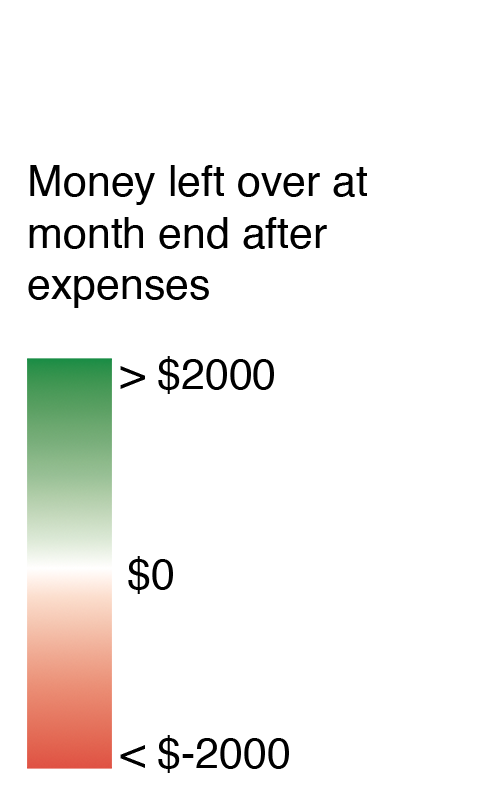
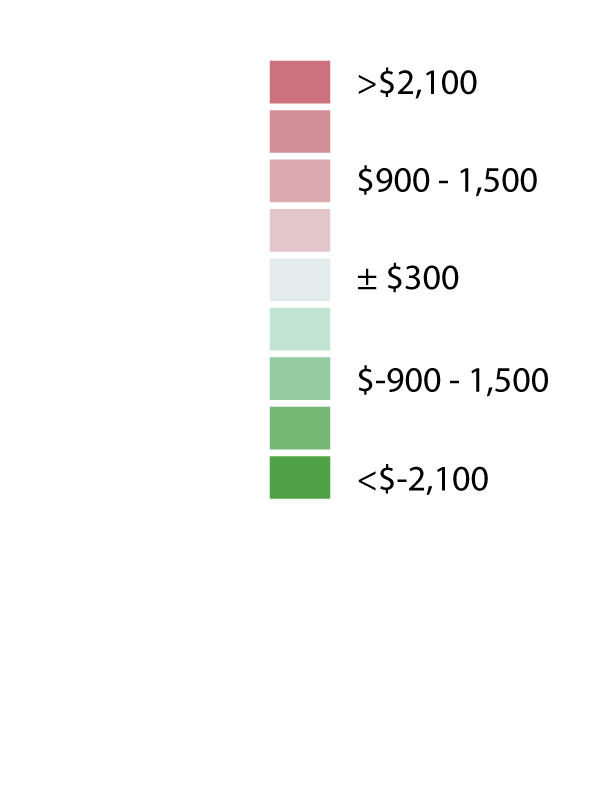
better interaction, updated colors and label to map

diff --git a/d3Tree/bayMap/index.html b/d3Tree/bayMap/index.html
@@ -7,42 +7,43 @@
   fill: none;
 }
 
+#job{
+  float:left;
+  width:45%;
+  padding: 20px;
+  padding-bottom: 50px;
+  height:25%;
+}
+#loan{
+  float:left;
+  width: 45%;
+  padding: 20px;
+  padding-bottom: 50px;
+}
 
-
-.q0-15:hover,
-.q1-15:hover,
-.q2-15:hover,
-.q3-15:hover,
-.q4-15:hover,
-.q5-15:hover,
-.q6-15:hover,
-.q7-15:hover,
-.q8-15:hover,
-.q9-15:hover,
-.q10-15:hover,
-.q11-15:hover,
-.q12-15:hover,
-.q13-15:hover,
-.q14-15:hover{
+.q0-9:hover,
+.q1-9:hover,
+.q2-9:hover,
+.q3-9:hover,
+.q4-9:hover,
+.q5-9:hover,
+.q6-9:hover,
+.q7-9:hover,
+.q8-9:hover{
   opacity: 0.7;
 }
 
-.q0-15, 
-.q1-15,
-.q2-15,
-.q3-15,
-.q4-15,
-.q5-15,
-.q6-15,
-.q7-15,
-.q8-15,
-.q9-15,
-.q10-15,
-.q11-15,
-.q12-15,
-.q13-15,
-.q14-15{
-  stroke: #606060 ;
+.outside,
+.q0-9, 
+.q1-9,
+.q2-9,
+.q3-9,
+.q4-9,
+.q5-9,
+.q6-9,
+.q7-9,
+.q8-9{
+  stroke: #FFFFFF ;
   stroke-width: .5px;
 }
 div.tooltip {
@@ -58,21 +59,36 @@ div.tooltip {
   pointer-events: none;
 }
 
-.q0-15 { fill:#e0524a; }
-.q1-15 { fill:#e4695b; }
-.q2-15 { fill:#e77d6b; }
-.q3-15 { fill:#ed9682; }
-.q4-15 { fill:#f1ad9a; }
-.q5-15 { fill:#f6c8b7; }
-.q6-15 { fill:#f6c9b8; }
-.q7-15 { fill:#ffffff; }
-.q8-15 { fill:#d4e4d0; }
-.q9-15 { fill:#b7d1b3; }
-.q10-15 { fill:#96bf98; }
-.q11-15 { fill:#7aaf82; }
-.q12-15 { fill:#5fa26e; }
-.q13-15 { fill:#42975c; }
-.q14-15 { fill:#1a8e4f; }
+#map {
+    display: block;
+    margin: auto;
+    text-align: center;
+}
+
+.q0-9 { fill:#CB727F; }
+.q1-9 { fill:#D28D96; }
+.q2-9 { fill:#DAA9AF; }
+.q3-9 { fill:#E2C6C9; }
+.q4-9 { fill:#DAE2E3; }
+.q5-9 { fill:#B4DCC2; }
+.q6-9 { fill:#96C99F; }
+.q7-9 { fill:#76B675; }
+.q8-9 { fill:#52A047; }
+
+
+.outside { fill: #CFCFCF}
+
+
+.tooltip{ background-color:rgba(68,136,187,0.5);;
+          margin: 10px;
+          height: 50px;
+          width: 150px;
+          padding-left: 10px; 
+          padding-top: 10px;
+    -webkit-border-radius:10px;
+    -moz-border-radius:10px;
+    border-radius:10px;
+        }
 
 </style>
 <body>
@@ -82,9 +98,10 @@ div.tooltip {
     <br>
 
       <div id = "map">
+        <div id = "job">
         <form action="">
           <label for="position">Position:</label>
-            <select id = "position">
+            <select id = "position" onchange = "printCalculation();" >
                  <option value="management">Management</option>
                  <option value="business_finops">Business and Financial Operations</option>
                  <option value="computer_math">Computer and Mathematical</option>
@@ -107,21 +124,13 @@ div.tooltip {
                  <option value="nstall_maint">Installation, Maintenance and Repair</option>
                  <option value="production">Production</option>
                  <option value="transportation">Transportation and Material Moving</option>
-        </select><br><br>
-        <label for="loan_amount">Loan Amount:</label>
-            <input type="text" id="loan_amount" value="17000">
-        <br><br>
-        <label for="interest_rate">Interest Rate:</label>
-            <input type="text" id="interest_rate" value="6">
-        <br><br>
-        <label for="payoff_period">Payoff Period:</label>
-            <input type="text" id="payoff_period" value="10">
+        </select>
         <br><br>
             <label for="weekly_hours_worked">Weekly Hours worked:</label>
-            <input type="range"  name="weekly_hours_worked" id="weekly_hours_worked" value="40" min="0" max="100" onchange="showValue(this.value)">
+            <input type="range"  name="weekly_hours_worked" id="weekly_hours_worked" value="40" min="0" max="100"  oninput = "printCalculation(); showValue(this.value)">
             <span id="weekly_hours_worked_label">40</span><br><br>
           <label for="familz_size">Family Size:</label>
-          <select id = "family_size">
+          <select id = "family_size" onchange = "printCalculation();">
             <option value="0">1 Adult</option>
             <option value="1">1 Adult, 1 Child</option>
             <option value="2">1 Adult, 2 Children</option>
@@ -130,9 +139,26 @@ div.tooltip {
             <option value="5">2 Adults, 1 Child</option>
             <option value="6">2 Aduls, 2 Children</option>
             <option value="7">2 Adults, 3 Children</option>
-          </select></br><br>
-        <input type="submit" value="Submit" onclick="printCalculation();return false;">
-        </form>
+          </select>
+        </div>
+
+        <div id = "loan">
+          <label for="loan_amount">Loan Amount:</label>
+            <input type="range"  name="loan_amount" id="loan_amount" value="17000" min="0" max="100000"  oninput = "printCalculation(); showValueLoan(this.value)">
+            <span id="loan_amount_label">17000</span>
+            <br><br>
+
+          <label for="interest_rate">Interest Rate:</label>
+            <input type="range"  name="interest_rate" id="interest_rate" value="6" min="0" max="20"  oninput = "printCalculation(); showValueIR(this.value)">
+            <span id="interest_rate_label">6</span><span>%</span>
+
+          <br><br>
+          <label for="payoff_period">Payoff Period:</label>
+              <input type="text" id="payoff_period" value="10" onchange = "printCalculation();" >
+          <br><br>
+          <input type="submit" value="Submit" onclick="printCalculation();return false;">
+          </form>
+        </div>
 
 <script src="d3.v3.min.js"></script>
 <script src="queue.v1.min.js"></script>
@@ -142,8 +168,9 @@ div.tooltip {
 <script>
 var family_size_json
 var myjson
+var counties = ["06097","06001","06055","06095","06013","06085","06081","06075","06041"];
 function printCalculation(){
-    var counties = ["06097","06001","06055","06095","06013","06085","06081","06075","06041"];
+    
     var output = document.createElement("div");
 
     //Get user inputs
@@ -187,6 +214,8 @@ function printCalculation(){
             console.log(money_final/10000);
           };
         });
+        svg.selectAll("*").remove();
+        drawSVG(sfBaySVG);
 
         output.textContent = "Money at end of month: $" + Math.round(money_final * 100) / 100;
 
@@ -196,11 +225,11 @@ function printCalculation(){
     //updateData();
 }
 
-function showValue(newValue)
+function showValueHoursWorked(newValue){document.getElementById("weekly_hours_worked_label").innerHTML=newValue;};
 
-{
-  document.getElementById("weekly_hours_worked_label").innerHTML=newValue;
-};
+function showValueLoan(newValue){document.getElementById("loan_amount_label").innerHTML=newValue;};
+
+function showValueIR(newValue){document.getElementById("interest_rate_label").innerHTML=newValue;};
 
 </script>
 
@@ -213,8 +242,8 @@ var width = 640,
 var rateById = d3.map();
 
 var quantize = d3.scale.quantize()
-    .domain([-.2, .2])
-    .range(d3.range(15).map(function(i) { return "q" + i + "-15"; }));
+    .domain([-.27, .27])
+    .range(d3.range(9).map(function(i) { return "q" + i + "-9"; }));
 
 var projection = d3.geo.mercator()
       .scale(6000 * 2)
@@ -224,25 +253,23 @@ var projection = d3.geo.mercator()
 var path = d3.geo.path()
     .projection(projection);
 
-var svg = d3.select("body").append("svg")
+var svg = d3.select("#map").append("svg")
     .attr("width", width)
-    .attr("height", height);
-
-
-
+    .attr("height", height)
 
 
 var sfBaySVG;
 
 queue()
     .defer(d3.json, "caCountiesTopo.json")
-    .defer(d3.tsv, "caUnemployment.tsv", function(d) { rateById.set(d.id, +d.rate); })
+    .defer(d3.tsv, "initial.tsv", function(d) { rateById.set(d.id, +d.rate); })
 
 
     .await(ready);
 
 var div = d3.select("#map").append("div")
   .attr("class", "tooltip")
+  .attr("diplay", "block")
   .style("opacity", 0);
 
 function drawSVG(mapSVG) {
@@ -250,19 +277,30 @@ function drawSVG(mapSVG) {
   svg.append("rect")
     .attr("width", "100%")
     .attr("height", "100%")
-    .attr("fill", "#E0E0EB");
-  svg.append("svg:image")
+    .attr("fill", "#f1f1f1");
+
+  //Append Legend
+  svg.append("text")
     .attr('x',10)
-     .attr('y',160)
-     .attr('width', 200)
-     .attr('height', 400)
+     .attr('y',335)
+     .attr("font-family","sans-serif")
+     .attr("fill","#3f3f3f")
+     .text("Leftover Money Monthly");
+  svg.append("svg:image")
+    .attr('x',-100)
+     .attr('y',240)
+     .attr('width', 250)
+     .attr('height', 500)
      .attr("xlink:href","legend.png")
   svg.append("g")
       .attr("class", "counties")
     .selectAll("path")
       .data(topojson.feature(mapSVG, mapSVG.objects.subunits).features)
     .enter().append("path")
-      .attr("class", function(d) { return quantize(rateById.get(d.id)); })
+      .attr("class", function(d) { 
+        if (counties.indexOf(d.id) > -1) {return quantize(rateById.get(d.id))
+        }else{
+          return "outside"}; })
       .attr("d", path);
 
 }
@@ -275,8 +313,6 @@ function ready(error, caCountiesTopo) {
 
 function updateData(county, value) {
   rateById.set(county, value)
-  svg.selectAll("*").remove();
-  drawSVG(sfBaySVG);
 }
 
 d3.select(self.frameElement).style("height", height + "px");
